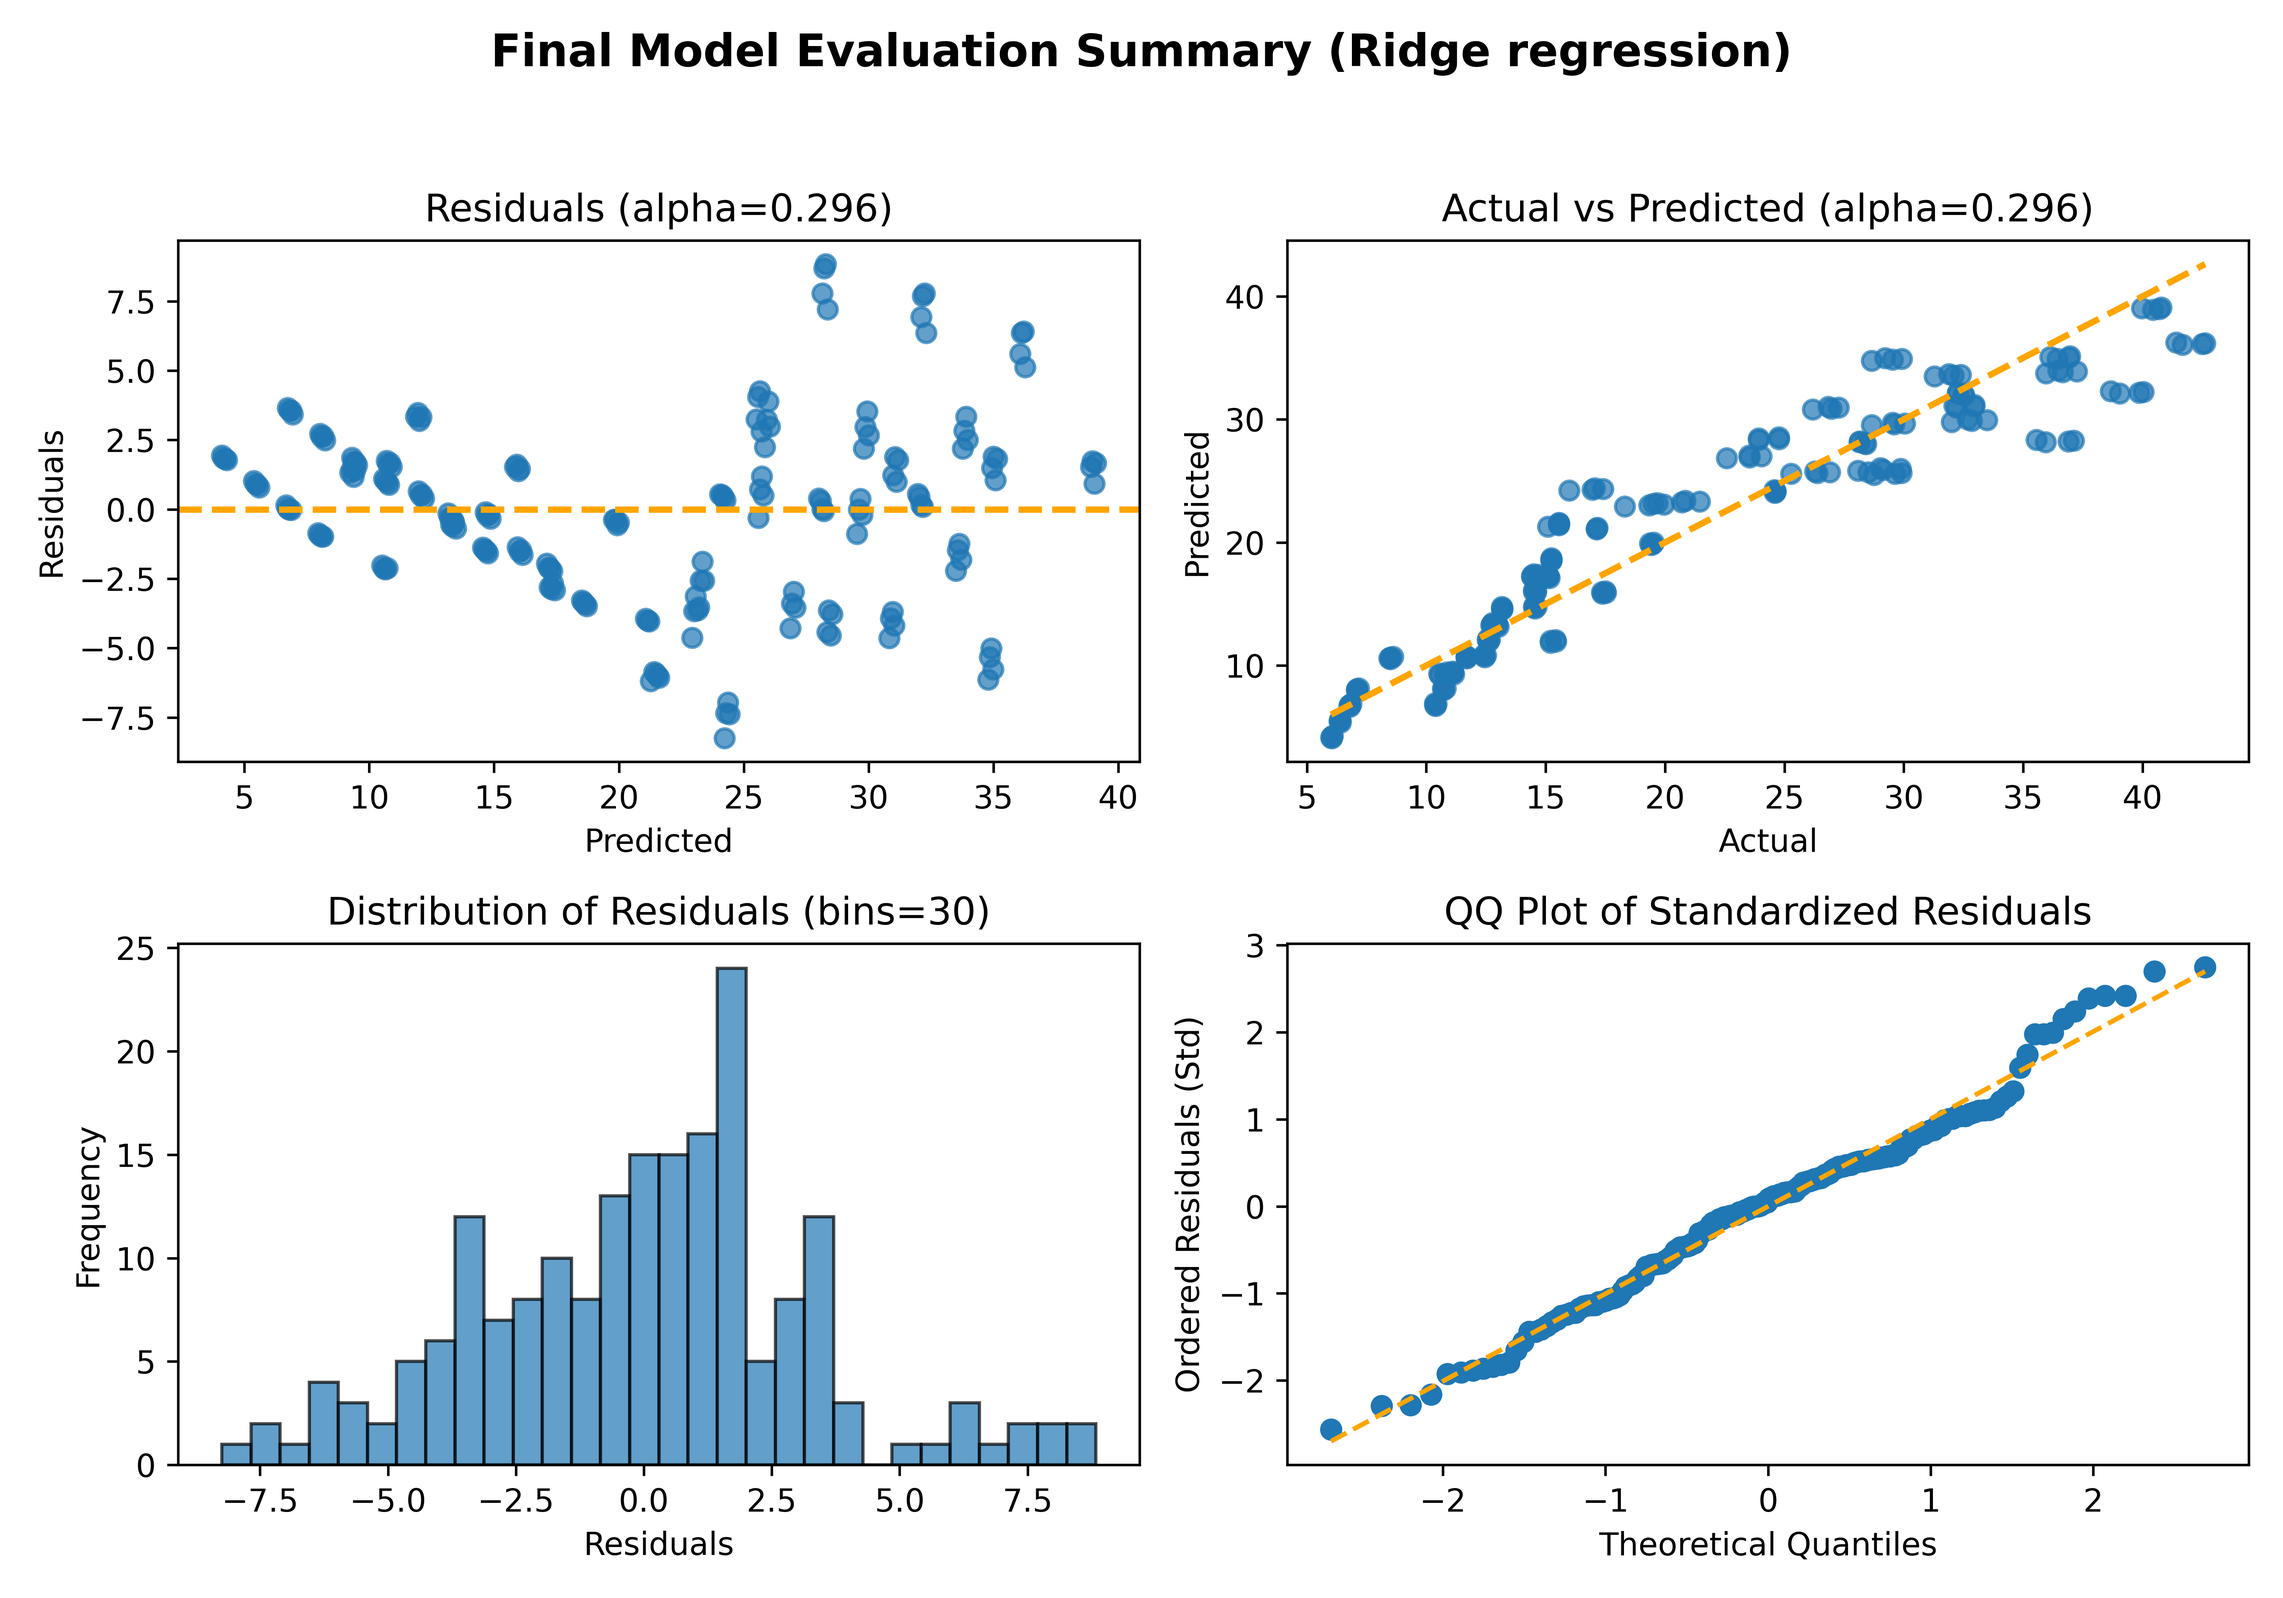
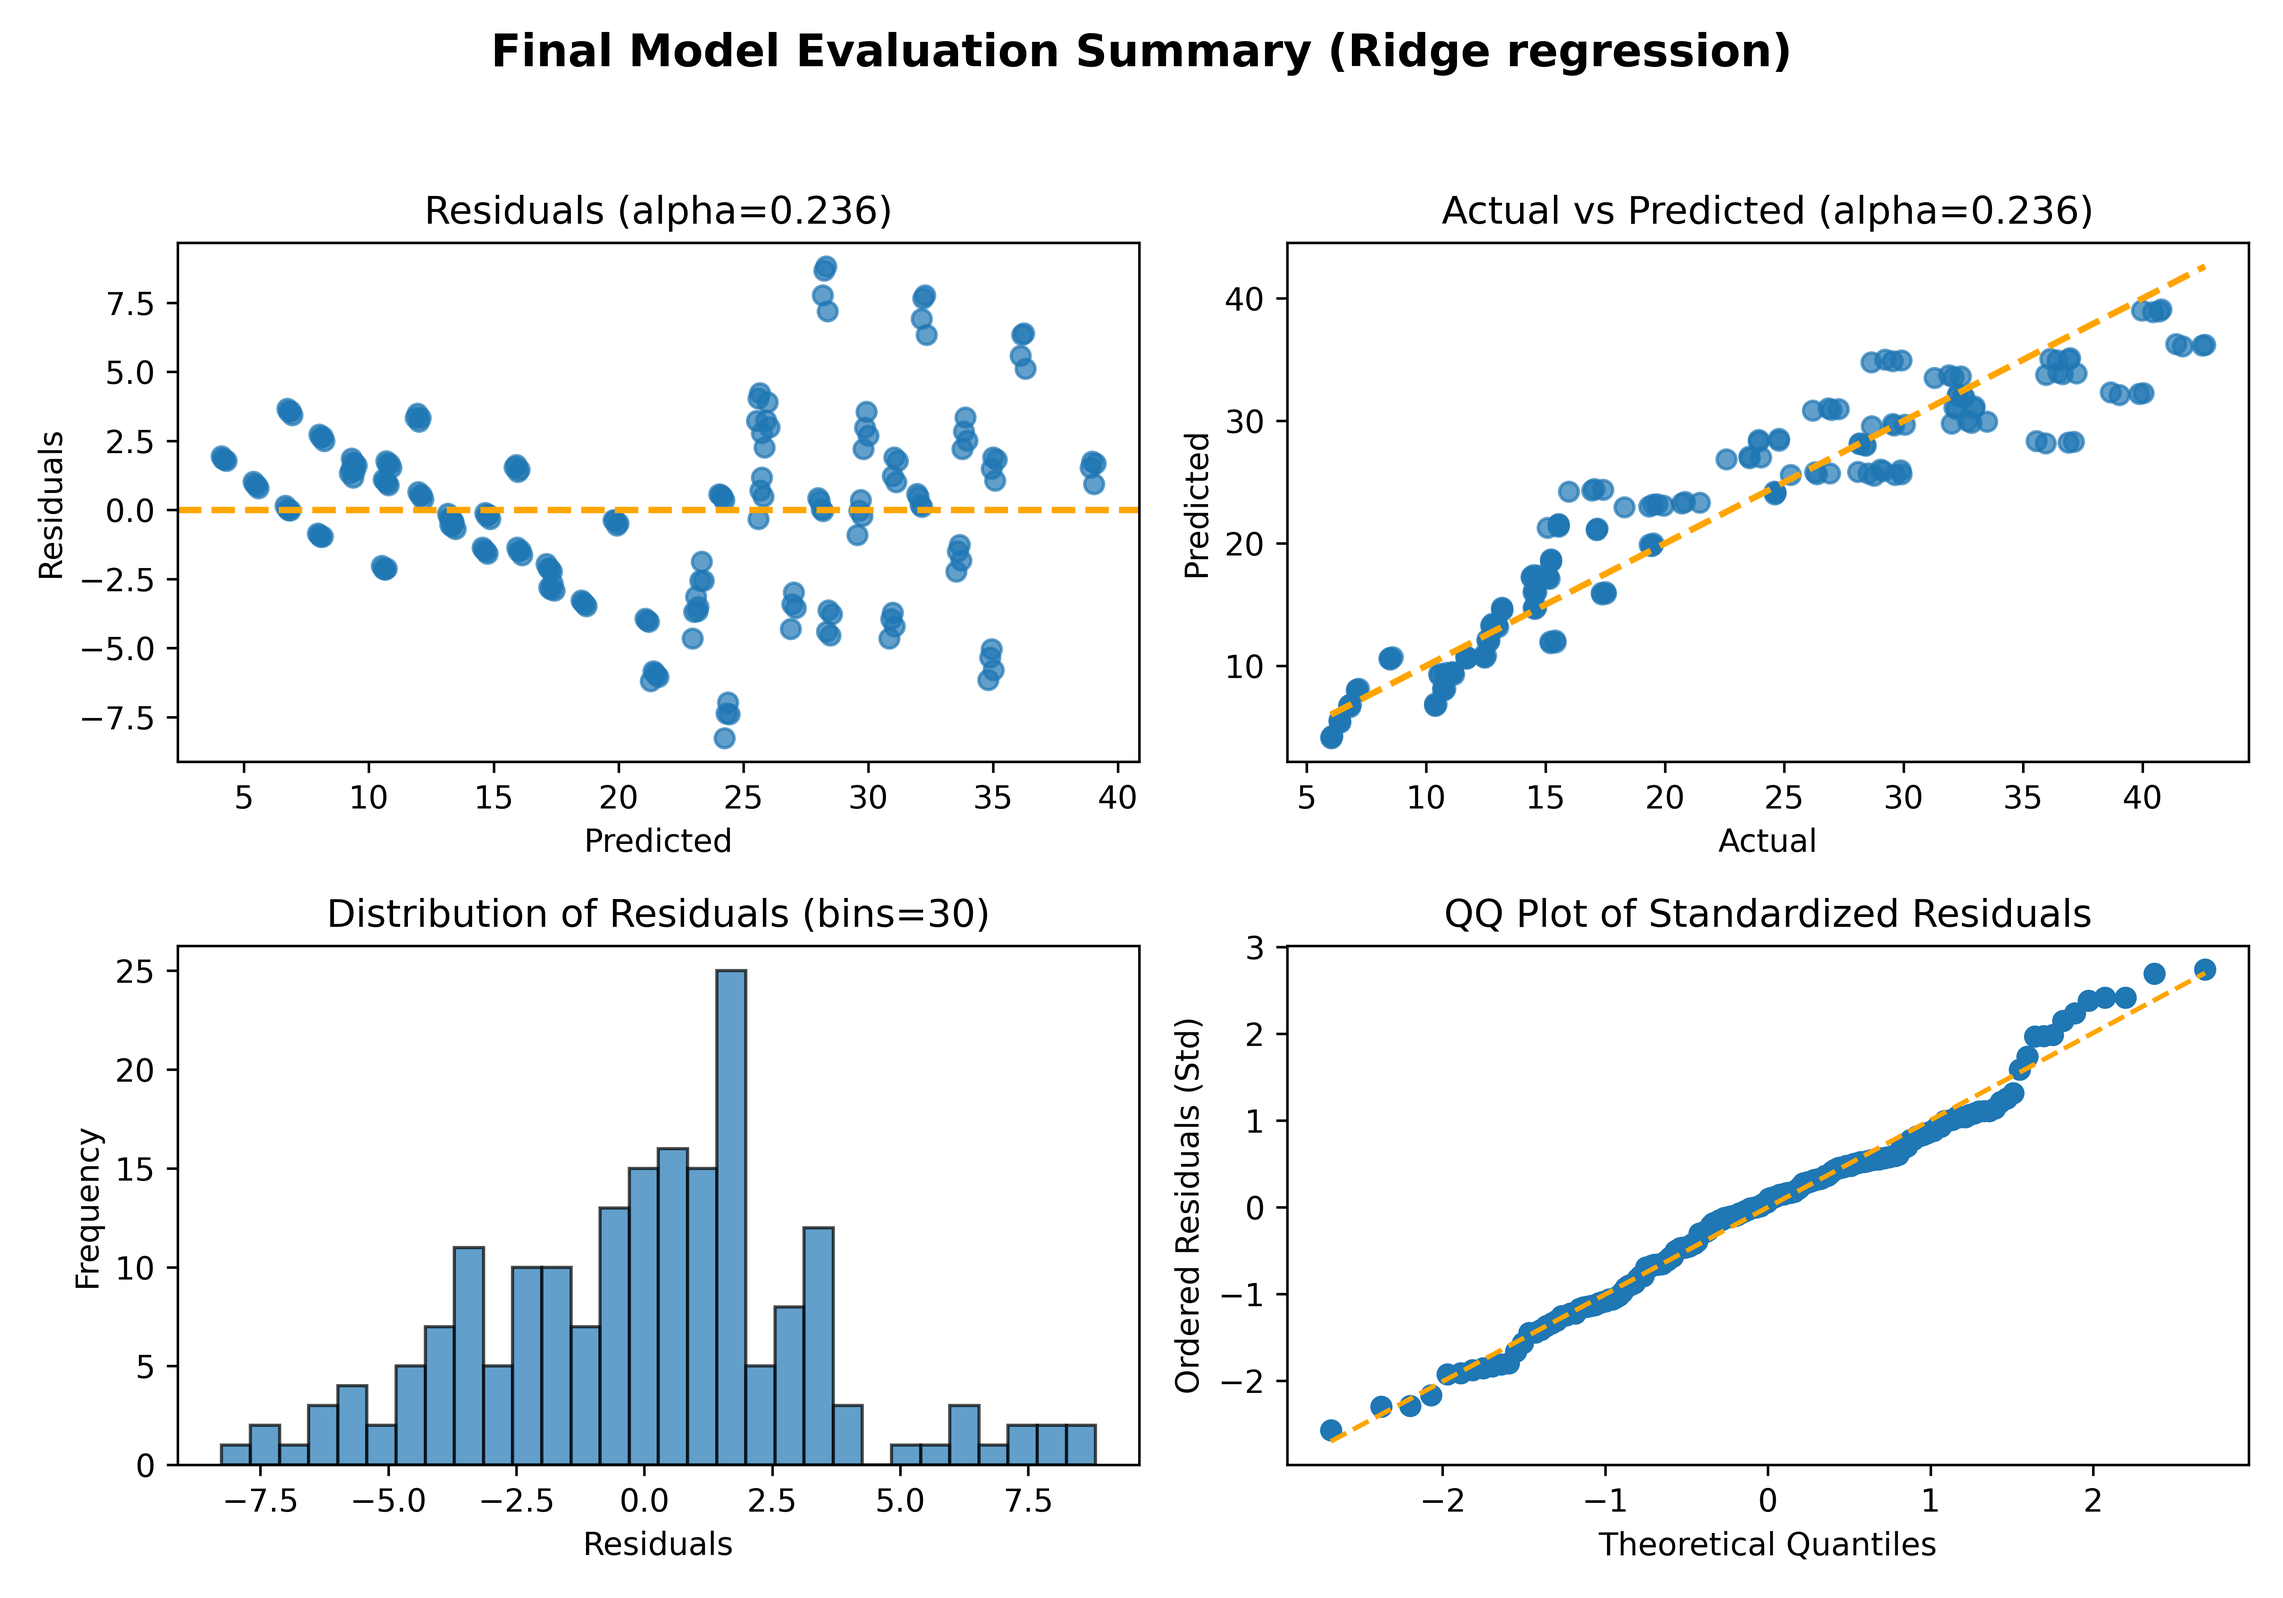
Added training errors to log.

diff --git a/src/ridge_regression.py b/src/ridge_regression.py
@@ -92,7 +92,8 @@ grid_search = GridSearchCV(
 )
 
 # Variables to accumulate RMSEs and alphas from each fold
-fold_rmse = []
+test_rmse_list = []
+train_rmse_list = []
 best_alphas = []
 
 for train_idx, test_idx in cv_outer.split(X_features, y_target):
@@ -110,20 +111,28 @@ for train_idx, test_idx in cv_outer.split(X_features, y_target):
 
     # Get predictions from the best model
     y_pred = best_model.predict(X_test)
+    y_train_pred = best_model.predict(X_train)
 
     # Validation score
-    rmse = np.sqrt(mean_squared_error(y_test, y_pred))
-    fold_rmse.append(rmse)
+    test_rmse = np.sqrt(mean_squared_error(y_test, y_pred))
+    test_rmse_list.append(test_rmse)
 
-    # Log the best hyperparameter and RMSE
-    logging.info(f"Best alpha (lambda): {best_alpha:.3f} | RMSE: {rmse:.3f}")
+    # Training score
+    train_rmse = np.sqrt(mean_squared_error(y_train, y_train_pred))
+    train_rmse_list.append(train_rmse)
+
+    # Log the best hyperparameter and RMSEs
+    logging.info(
+        f"Best alpha (lambda): {best_alpha:.3f} | RMSE_test: {test_rmse:.3f} | RMSE_train: {train_rmse:.3f}"
+    )
 
 # Calculate and log the approximate generalization error
-mean_rmse = np.mean(fold_rmse)
-std_rmse = np.std(fold_rmse)
-logging.info(
-    f"Approximate generalization error (RMSE): {mean_rmse:.3f} | Std: {std_rmse:.3f}"
-)
+mean_test_rmse = np.mean(test_rmse_list)
+logging.info(f"Approximate generalization error (mean RMSE_test): {mean_test_rmse:.3f}")
+
+# Calculate and log the training error
+mean_train_rmse = np.mean(train_rmse_list)
+logging.info(f"Training error (mean RMSE_train): {mean_train_rmse:.3f}")
 
 # Calculate and log the average alpha
 mean_alpha = np.mean(best_alphas)

diff --git a/src/final_model.py b/src/final_model.py
@@ -67,7 +67,7 @@ assert len(X_features) == len(y_target), "Number of rows do not match after rein
 # =======================================
 
 # Set alpha (lambda)
-best_alpha = 0.296
+best_alpha = 0.236
 
 # Create final pipeline with best alpha
 final_model = Pipeline(

diff --git a/README.md b/README.md
@@ -11,6 +11,7 @@ This repository contains my generic framework for prototyping a ridge regression
 - Set pandas extension dtypes to optimize memory usage and support nullability.
 - Manually select features, remove duplicate rows, and reindex the DataFrame.
 - Tune `alpha` using the inner loop of nested cross-validation.
+- Validation and training errors (RMSE) for each fold are logged to `training.log` for evaluating overfitting.
 - Estimate generalization error (RMSE) from the outer loop and log it to `training.log`.
 - Compute average `best_alpha` across folds and log it to `training.log`.
 
